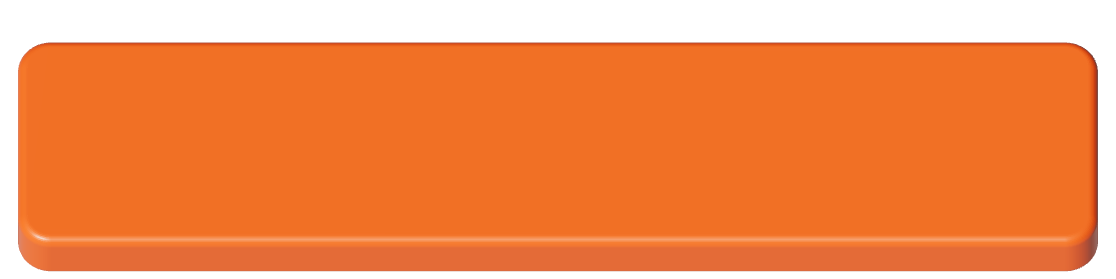
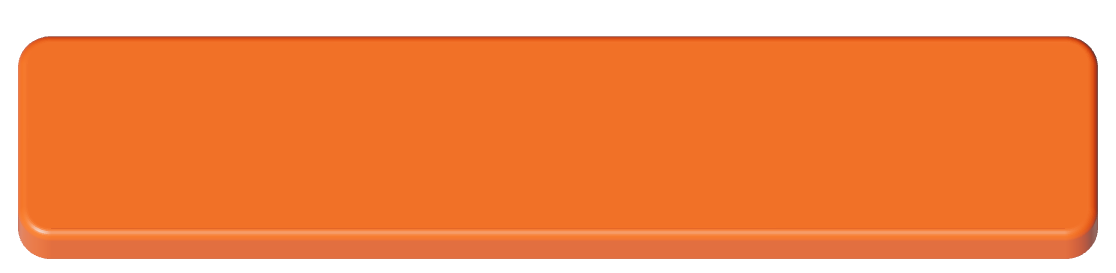
Every key seen from one angle: the small keys' walls taller, the start key's shorter
The deck's small keys were drawn as if seen almost straight down, three
pixels of wall under a forty-pixel key, while the start key's render was
tipped thirty degrees and showed a nine-pixel wall under its face: two
viewing angles on one deck. They meet in the middle now, a wall about a
tenth of a key's height everywhere. The start key is re-rendered from a
camera tipped twenty-three degrees, its wall seven pixels and its press
five, the border image resliced to match; the deck's keys go to four
pixels of wall, the distance keys to five, the bib's keys and the map's to
four, the mute key, the selectors' sliding keys and the speed key to
three, each with press travel to match, so a key goes down by exactly its
wall.

Claude-Session: https://claude.ai/code/session_01Dmg3qgF2RMqA8VqrgFUq5h

diff --git a/web/src/app/globals.css b/web/src/app/globals.css
@@ -30,9 +30,11 @@
   --key-hi: inset 0 1px 0 rgba(255, 255, 255, 0.22), inset 0 -1px 0 rgba(0, 0, 0, 0.6), inset 1px 0 0 rgba(255, 255, 255, 0.07), inset -1px 0 0 rgba(0, 0, 0, 0.45);
   --skirt-3: 0 1px 0 #26262c, 0 2px 0 #151519, 0 3px 0 #07070a, 0 4px 1px rgba(0, 0, 0, 0.75), 0 6px 8px rgba(0, 0, 0, 0.45), 0 12px 18px rgba(0, 0, 0, 0.35);
   --skirt-4: 0 1px 0 #26262c, 0 2px 0 #1a1a1f, 0 3px 0 #101013, 0 4px 0 #07070a, 0 5px 1px rgba(0, 0, 0, 0.75), 0 8px 10px rgba(0, 0, 0, 0.45), 0 16px 22px rgba(0, 0, 0, 0.35);
+  --skirt-5: 0 1px 0 #26262c, 0 2px 0 #1d1d22, 0 3px 0 #151519, 0 4px 0 #0d0d10, 0 5px 0 #07070a, 0 6px 1px rgba(0, 0, 0, 0.75), 0 9px 11px rgba(0, 0, 0, 0.45), 0 18px 24px rgba(0, 0, 0, 0.35);
   --white-key: radial-gradient(120% 70% at 30% 0%, rgba(255, 255, 255, 0.95), rgba(255, 255, 255, 0) 60%), linear-gradient(180deg, #fbfaf6 0%, #ecebe5 55%, #dad7ce 100%);
   --white-hi: inset 0 1px 0 #fff, inset 0 -1px 0 rgba(0, 0, 0, 0.14), inset 1px 0 0 rgba(255, 255, 255, 0.6), inset -1px 0 0 rgba(0, 0, 0, 0.1);
   --white-skirt-3: 0 1px 0 #b0ada3, 0 2px 0 #86837a, 0 3px 0 #5c5952, 0 4px 1px rgba(0, 0, 0, 0.65), 0 6px 8px rgba(0, 0, 0, 0.4), 0 12px 18px rgba(0, 0, 0, 0.3);
+  --white-skirt-4: 0 1px 0 #b0ada3, 0 2px 0 #96938a, 0 3px 0 #7a776f, 0 4px 0 #5c5952, 0 5px 1px rgba(0, 0, 0, 0.65), 0 7px 9px rgba(0, 0, 0, 0.4), 0 13px 18px rgba(0, 0, 0, 0.3);
   /* An orange face under the light: a soft flare towards the top left where
      the light lands, the edges falling into shade all round, a fine grain
      like moulded plastic, and no gloss line. */
@@ -40,6 +42,7 @@
   --orange-key-hover: var(--grain-key), radial-gradient(70% 60% at 30% 0%, rgba(255, 255, 255, 0.34), rgba(255, 255, 255, 0) 100%), radial-gradient(130% 170% at 50% 45%, rgba(0, 0, 0, 0) 55%, rgba(0, 0, 0, 0.14) 100%), linear-gradient(180deg, #ff8846 0%, #ff6a20 60%, #fb580c 100%);
   --orange-hi: inset 0 1px 0 rgba(255, 255, 255, 0.4), inset 0 -1px 0 rgba(0, 0, 0, 0.25), inset 1px 0 0 rgba(255, 255, 255, 0.15), inset -1px 0 0 rgba(0, 0, 0, 0.2);
   --orange-skirt-3: 0 1px 0 #cf4800, 0 2px 0 #a33900, 0 3px 0 #7a2b00, 0 4px 1px rgba(0, 0, 0, 0.65), 0 6px 8px rgba(0, 0, 0, 0.4), 0 12px 18px rgba(252, 82, 0, 0.22);
+  --orange-skirt-4: 0 1px 0 #cf4800, 0 2px 0 #b03d00, 0 3px 0 #923200, 0 4px 0 #7a2b00, 0 5px 1px rgba(0, 0, 0, 0.65), 0 7px 9px rgba(0, 0, 0, 0.4), 0 13px 18px rgba(252, 82, 0, 0.22);
   /* A legend engraved in a key's face, as on the start key: a line of shade
      along the top of each letter, where the cut's upper wall shadows it, and
      a thread of light along the bottom, where its lower lip catches the
@@ -163,7 +166,7 @@ body {
   border-radius: 7px;
   background: var(--key);
   color: var(--ink-3);
-  box-shadow: var(--key-hi), 0 1px 0 #0d0d10, 0 2px 3px rgba(0, 0, 0, 0.5);
+  box-shadow: var(--key-hi), 0 1px 0 #1d1d22, 0 2px 0 #0f0f12, 0 3px 0 #050506, 0 4px 1px rgba(0, 0, 0, 0.6), 0 5px 6px rgba(0, 0, 0, 0.4);
   cursor: pointer;
   transition: color 0.15s, transform 0.12s cubic-bezier(0.2, 1.5, 0.4, 1), box-shadow 0.12s;
 }
@@ -172,7 +175,7 @@ body {
 }
 .mute:active,
 .mute[data-pressed] {
-  transform: translateY(2px);
+  transform: translateY(3px);
   box-shadow: var(--sunk);
   transition-duration: 0.06s;
 }
@@ -613,7 +616,7 @@ body {
   color: var(--ink);
   text-shadow: var(--cut-dark);
   cursor: pointer;
-  box-shadow: var(--key-hi), var(--skirt-4);
+  box-shadow: var(--key-hi), var(--skirt-5);
   transition: transform 0.18s cubic-bezier(0.2, 1.6, 0.4, 1), box-shadow 0.18s cubic-bezier(0.2, 1.6, 0.4, 1), background 0.12s;
 }
 @media (hover: hover) {
@@ -629,7 +632,7 @@ body {
 .tile:active:not(:disabled),
 .tile[data-pressed]:not(:disabled),
 .tile[aria-pressed="true"] {
-  transform: translateY(4px);
+  transform: translateY(5px);
   background: var(--key-down);
   box-shadow: var(--sunk);
 }
@@ -690,7 +693,7 @@ body {
   width: calc((100% - 4px) / var(--n, 3) - 2px);
   border-radius: 4px;
   background: var(--white-key);
-  box-shadow: var(--white-hi), 0 1px 0 #aaa79d, 0 2px 0 #7d7a72, 0 3px 3px rgba(0, 0, 0, 0.65);
+  box-shadow: var(--white-hi), 0 1px 0 #aaa79d, 0 2px 0 #8f8c84, 0 3px 0 #6b685f, 0 4px 3px rgba(0, 0, 0, 0.65);
   transition: left 0.22s cubic-bezier(0.3, 0.9, 0.35, 1.18);
   pointer-events: none;
 }
@@ -825,7 +828,7 @@ body {
   text-shadow: var(--cut-dark);
   cursor: pointer;
   user-select: none;
-  box-shadow: var(--key-hi), var(--skirt-3);
+  box-shadow: var(--key-hi), var(--skirt-4);
   transition: transform 0.18s cubic-bezier(0.2, 1.6, 0.4, 1), box-shadow 0.18s cubic-bezier(0.2, 1.6, 0.4, 1), background 0.12s, color 0.12s;
 }
 @media (hover: hover) {
@@ -835,7 +838,7 @@ body {
 }
 .btn:active:not(:disabled),
 .btn[data-pressed]:not(:disabled) {
-  transform: translateY(3px);
+  transform: translateY(4px);
   background: var(--key-down);
   box-shadow: var(--sunk);
   transition-duration: 0.05s;
@@ -857,7 +860,7 @@ body {
   background: var(--white-key);
   color: var(--bg);
   text-shadow: var(--cut-light);
-  box-shadow: var(--white-hi), var(--white-skirt-3);
+  box-shadow: var(--white-hi), var(--white-skirt-4);
 }
 .btn-fill svg {
   filter: var(--cut-light-icon);
@@ -876,7 +879,7 @@ body {
   background: var(--orange-key);
   color: #fff3ea;
   text-shadow: var(--cut-orange);
-  box-shadow: var(--orange-hi), var(--orange-skirt-3);
+  box-shadow: var(--orange-hi), var(--orange-skirt-4);
 }
 .btn-orange svg {
   filter: var(--cut-orange-icon);
@@ -916,8 +919,8 @@ body {
   align-items: center;
   justify-content: center;
   width: 100%;
-  height: 77px;                  /* the face, 68, on its wall, 9 */
-  padding: 0 0 9px;
+  height: 75px;                  /* the face, 68, on its wall, 7 */
+  padding: 0 0 7px;
   border: 0;
   background: none;
   color: #f6e8dc;
@@ -937,7 +940,7 @@ body {
 }
 /* The picture of the key, behind the legend: the render, whose frame is only
    as wide as the key plus a little air (6 above and either side, 10 below for
-   the pressed cap), sliced 26px in from the top and sides and 39 from the
+   the pressed cap), sliced 26px in from the top and sides and 37 from the
    bottom so the corners, the fillet and the wall's ends stay whole while the
    middle stretches to any width. */
 .go::before {
@@ -948,8 +951,8 @@ body {
   border: 0 solid transparent;
   border-image-source: url("/key-up.png");
   border-image-source: image-set(url("/key-up.webp") type("image/webp"), url("/key-up.png") type("image/png"));
-  border-image-slice: 78 78 117 78 fill;
-  border-image-width: 26px 26px 39px 26px;
+  border-image-slice: 78 78 111 78 fill;
+  border-image-width: 26px 26px 37px 26px;
   border-image-repeat: stretch;
   pointer-events: none;
 }
@@ -983,7 +986,7 @@ body {
 .go:active:not(:disabled) .go-cap,
 .go[data-pressed]:not(:disabled) .go-cap,
 .go[data-held="down"] .go-cap {
-  transform: translateY(7px);
+  transform: translateY(5px);
   transition-duration: 0.11s;    /* down: pushed, settling on its seat */
   transition-timing-function: ease-out;
 }
@@ -1466,7 +1469,7 @@ details[open] > .disclose svg {
   white-space: nowrap;
   text-shadow: var(--cut-light);
   cursor: pointer;
-  box-shadow: var(--white-hi), inset 0 0 0 1px rgba(23, 23, 26, 0.16), 0 1px 0 #b0ada3, 0 2px 0 #86837a, 0 3px 0 #5c5952, 0 4px 1px rgba(0, 0, 0, 0.5), 0 6px 8px rgba(0, 0, 0, 0.26), 0 10px 14px rgba(0, 0, 0, 0.14);
+  box-shadow: var(--white-hi), inset 0 0 0 1px rgba(23, 23, 26, 0.16), 0 1px 0 #b0ada3, 0 2px 0 #96938a, 0 3px 0 #7a776f, 0 4px 0 #5c5952, 0 5px 1px rgba(0, 0, 0, 0.5), 0 7px 9px rgba(0, 0, 0, 0.26), 0 11px 14px rgba(0, 0, 0, 0.14);
   transition: transform 0.18s cubic-bezier(0.2, 1.6, 0.4, 1), box-shadow 0.18s cubic-bezier(0.2, 1.6, 0.4, 1), background 0.12s;
 }
 @media (hover: hover) {
@@ -1476,7 +1479,7 @@ details[open] > .disclose svg {
 }
 .pbtn:active,
 .pbtn[data-pressed] {
-  transform: translateY(3px);
+  transform: translateY(4px);
   background: linear-gradient(180deg, #cfcbc0, #ebe8e0);
   box-shadow: inset 0 4px 6px -1px rgba(0, 0, 0, 0.38), inset 2px 0 3px -2px rgba(0, 0, 0, 0.2), inset -2px 0 3px -2px rgba(0, 0, 0, 0.2), inset 0 0 0 1px rgba(23, 23, 26, 0.25), inset 0 -1px 0 rgba(255, 255, 255, 0.7), 0 0 0 1px rgba(23, 23, 26, 0.28);
   transition-duration: 0.05s;
@@ -1486,7 +1489,7 @@ details[open] > .disclose svg {
   cursor: default;
 }
 .pbtn[aria-pressed="true"] {
-  transform: translateY(3px);
+  transform: translateY(4px);
   background: linear-gradient(180deg, #0f0f12, #202024);
   color: var(--paper);
   text-shadow: var(--cut-dark);
@@ -1507,7 +1510,7 @@ details[open] > .disclose svg {
   background: var(--orange-key);
   color: #fff3ea;
   text-shadow: var(--cut-orange);
-  box-shadow: var(--orange-hi), inset 0 0 0 1px rgba(0, 0, 0, 0.12), 0 1px 0 #cf4800, 0 2px 0 #a33900, 0 3px 0 #7a2b00, 0 4px 1px rgba(0, 0, 0, 0.5), 0 6px 8px rgba(0, 0, 0, 0.26);
+  box-shadow: var(--orange-hi), inset 0 0 0 1px rgba(0, 0, 0, 0.12), 0 1px 0 #cf4800, 0 2px 0 #b03d00, 0 3px 0 #923200, 0 4px 0 #7a2b00, 0 5px 1px rgba(0, 0, 0, 0.5), 0 7px 9px rgba(0, 0, 0, 0.26);
 }
 .pbtn-orange svg {
   filter: var(--cut-orange-icon);
@@ -1526,7 +1529,7 @@ details[open] > .disclose svg {
   background: linear-gradient(180deg, #2a2a30 0%, #1a1a1e 55%, #121215 100%);
   color: var(--paper);
   text-shadow: var(--cut-dark);
-  box-shadow: inset 0 1px 0 rgba(255, 255, 255, 0.16), inset 0 -1px 0 rgba(0, 0, 0, 0.6), 0 1px 0 #0d0d0f, 0 2px 0 #08080a, 0 3px 0 #000, 0 4px 1px rgba(0, 0, 0, 0.5), 0 6px 8px rgba(0, 0, 0, 0.3);
+  box-shadow: inset 0 1px 0 rgba(255, 255, 255, 0.16), inset 0 -1px 0 rgba(0, 0, 0, 0.6), 0 1px 0 #101013, 0 2px 0 #0b0b0d, 0 3px 0 #060608, 0 4px 0 #000, 0 5px 1px rgba(0, 0, 0, 0.5), 0 7px 9px rgba(0, 0, 0, 0.3);
 }
 .pbtn-ink svg {
   filter: var(--cut-dark-icon);
@@ -1667,7 +1670,7 @@ details[open] > .disclose svg {
   line-height: 1;
   white-space: nowrap;
   text-shadow: var(--cut-dark);
-  box-shadow: inset 0 1px 0 rgba(255, 255, 255, 0.1), 0 1px 0 #1d1d22, 0 2px 0 #0f0f12, 0 3px 0 #050506, 0 4px 1px rgba(0, 0, 0, 0.7), 0 5px 10px rgba(0, 0, 0, 0.45);
+  box-shadow: inset 0 1px 0 rgba(255, 255, 255, 0.1), 0 1px 0 #1d1d22, 0 2px 0 #131317, 0 3px 0 #0a0a0c, 0 4px 0 #050506, 0 5px 1px rgba(0, 0, 0, 0.7), 0 6px 10px rgba(0, 0, 0, 0.45);
   backdrop-filter: blur(6px);
   cursor: pointer;
   transition: transform 0.18s cubic-bezier(0.2, 1.6, 0.4, 1), box-shadow 0.18s cubic-bezier(0.2, 1.6, 0.4, 1), background 0.12s;
@@ -1679,7 +1682,7 @@ details[open] > .disclose svg {
 }
 .map-btn:active:not(:disabled),
 .map-btn[data-pressed]:not(:disabled) {
-  transform: translateY(3px);
+  transform: translateY(4px);
   background: linear-gradient(180deg, rgba(14, 14, 17, 0.97), rgba(28, 28, 33, 0.97));
   box-shadow: var(--sunk);
   transition-duration: 0.05s;
@@ -1696,7 +1699,7 @@ details[open] > .disclose svg {
   background: linear-gradient(180deg, #ffffff, #e4e1d9);
   color: var(--bg);
   text-shadow: var(--cut-light);
-  box-shadow: inset 0 1px 0 #fff, 0 1px 0 #b0ada3, 0 2px 0 #86837a, 0 3px 0 #5c5952, 0 4px 1px rgba(0, 0, 0, 0.6), 0 5px 10px rgba(0, 0, 0, 0.45);
+  box-shadow: inset 0 1px 0 #fff, 0 1px 0 #b0ada3, 0 2px 0 #96938a, 0 3px 0 #7a776f, 0 4px 0 #5c5952, 0 5px 1px rgba(0, 0, 0, 0.6), 0 6px 10px rgba(0, 0, 0, 0.45);
 }
 .map-btn[aria-pressed="true"] svg {
   filter: var(--cut-light-icon);
@@ -1888,12 +1891,12 @@ details[open] > .disclose svg {
   letter-spacing: 0.06em;
   font-variant-numeric: tabular-nums;
   background: var(--key);
-  box-shadow: var(--key-hi), 0 1px 0 #1d1d22, 0 2px 0 #0a0a0c, 0 3px 1px rgba(0, 0, 0, 0.6), 0 4px 6px rgba(0, 0, 0, 0.4);
+  box-shadow: var(--key-hi), 0 1px 0 #1d1d22, 0 2px 0 #0f0f12, 0 3px 0 #050506, 0 4px 1px rgba(0, 0, 0, 0.6), 0 5px 6px rgba(0, 0, 0, 0.4);
   backdrop-filter: none;
 }
 .map-btn.map-speed:active:not(:disabled),
 .map-btn.map-speed[data-pressed]:not(:disabled) {
-  transform: translateY(2px);
+  transform: translateY(3px);
   background: var(--key-down);
   box-shadow: var(--sunk);
 }

diff --git a/web/tools/toggle3d/key3d.html b/web/tools/toggle3d/key3d.html
@@ -8,7 +8,8 @@ import { mergeVertices } from "three/addons/utils/BufferGeometryUtils.js";
 
 // The start key as an object: a cap, a rounded rectangle in plan with a fillet all
 // round its top edge, standing 18 units on the deck, seen from above with the view
-// tipped 30 degrees forward so its front wall shows as a band 9px tall. Drawn at
+// tipped 23 degrees forward so its front wall shows as a band 7px tall, the same
+// angle the deck's small keys are drawn at (a wall a tenth of the height). Drawn at
 // 1 world unit = 1 CSS px, three device px to the unit, with room round it for the
 // shadow it throws. ?state=up|down (down: the cap dropped onto its seat) and
 // ?tone=orange|dark (the dark key is the one that is not yet ready).
@@ -16,11 +17,13 @@ const q = new URLSearchParams(location.search);
 const STATE = q.get("state") || "up";
 const TONE = q.get("tone") || "orange";
 const PX = 3;
-const CAP_W = 360, CAP_H = 68 / Math.cos(Math.PI / 6);   // the face, 68px tall once tipped
+const TILT = 23 * Math.PI / 180;
+const WALL = Math.round(18 * Math.sin(TILT));            // 7px of wall on screen
+const CAP_W = 360, CAP_H = 68 / Math.cos(TILT);         // the face, 68px tall once tipped
 const RADIUS = 11, FILLET = 3.2, DEPTH = 18;
 const MARGIN = { top: 6, side: 6, bottom: 10 };
 const IMG_W = CAP_W + MARGIN.side * 2;
-const IMG_H = 68 + 9 + MARGIN.top + MARGIN.bottom;
+const IMG_H = 68 + WALL + MARGIN.top + MARGIN.bottom;
 
 const renderer = new THREE.WebGLRenderer({ antialias: true, alpha: true, preserveDrawingBuffer: true });
 renderer.setSize(IMG_W, IMG_H);
@@ -50,9 +53,8 @@ function studio() {
 scene.environment = pmrem.fromScene(studio(), 0.02).texture;
 scene.environmentIntensity = 1.1;
 
-// an orthographic view from above, tipped forward 30 degrees: y up out of the deck,
+// an orthographic view from above, tipped forward TILT: y up out of the deck,
 // z towards the viewer; the image's x is the world's x, the image's y climbs the tipped view
-const TILT = Math.PI / 6;
 const camera = new THREE.OrthographicCamera(-IMG_W / 2, IMG_W / 2, IMG_H / 2, -IMG_H / 2, -1000, 1000);
 camera.position.set(0, Math.cos(TILT) * 500, Math.sin(TILT) * 500);
 camera.up.set(0, 1, 0);
@@ -97,7 +99,7 @@ const plastic = TONE === "orange"
 const cap = new THREE.Mesh(geo, plastic);
 // the image is centred on the cap's face: put the face's centre at the image's centre
 // (the deck plane sits below by the cap's height)
-const DROP = STATE === "down" ? 14 : 0;   // 7px on screen: the cap on its seat, 2px of wall left
+const DROP = STATE === "down" ? 13 : 0;   // 5px on screen: the cap on its seat, 2px of wall left
 cap.position.y = -DROP;
 scene.add(cap);
 // The face's centre is the world's origin (the cap stands DEPTH below it on the deck).
